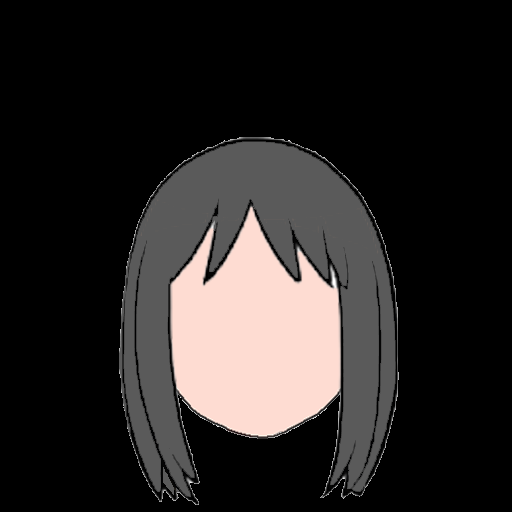
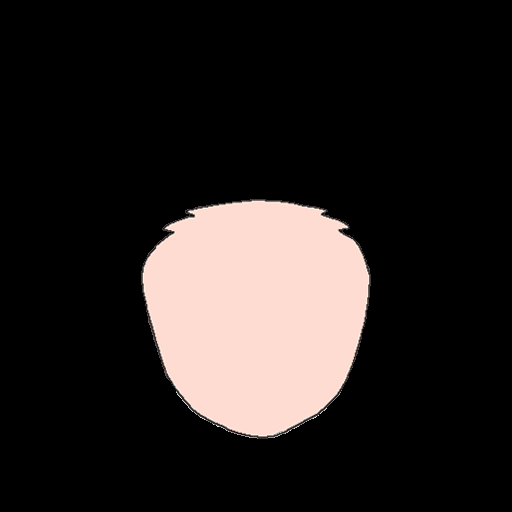
Update

Changed region(s): [[0.2188, 0.25, 0.7812, 1.0]]

diff --git a/frontend/js/animation/CharacterStructure.js b/frontend/js/animation/CharacterStructure.js
@@ -46,7 +46,7 @@ function CharacterStructure ( editor, name ) {
 	this.add( this.nose_mesh );
 	this.add( this.mouth_mesh );
 
-	this.accessory = null;
+	this.hair = null;
 	this.face = null;
 	this.left_ear = null;
 
@@ -75,7 +75,7 @@ CharacterStructure.prototype = Object.create( THREE.Group.prototype );
 CharacterStructure.prototype.constructor = CharacterStructure;
 
 CharacterStructure.prototype.check = function () {
-	if ( this.isCompleted === 50 ) {
+	if ( this.isCompleted === 51 ) {
 		if ( this.name === 'boy' ) {
 			this.editor.boyLoaded = true;
 			this.editor.boyLabel.dom.click();
@@ -90,15 +90,15 @@ CharacterStructure.prototype.check = function () {
 
 CharacterStructure.prototype.addElement = function ( basicElement ) {
 	switch ( basicElement.name ) {
-		// case 'accessory': {
-		// 	basicElement.mesh.position.z -= 0.2;
-		// 	this.accessory = basicElement;
-		// 	this.add( basicElement.mesh );
-		//
-		// 	this.isCompleted++;
-		// 	this.check();
-		// 	break;
-		// }
+		case 'hair': {
+			basicElement.mesh.position.z -= 0.2;
+			this.hair = basicElement;
+			this.add( basicElement.mesh );
+
+			this.isCompleted++;
+			this.check();
+			break;
+		}
 		case 'face': {
 			this.face = basicElement;
 			this.add( basicElement.mesh );
@@ -108,6 +108,7 @@ CharacterStructure.prototype.addElement = function ( basicElement ) {
 			break;
 		}
 		case 'left_ear': {
+			basicElement.mesh.position.z -= 0.3;
 			this.left_ear = basicElement;
 			this.add( basicElement.mesh );
 
@@ -167,7 +168,7 @@ CharacterStructure.prototype.addElement = function ( basicElement ) {
 			break;
 		}
 		case 'right_ear': {
-			basicElement.mesh.position.z -= 0.1;
+			basicElement.mesh.position.z -= 0.3;
 			this.right_ear = basicElement;
 			this.add( basicElement.mesh );
 
@@ -214,48 +215,54 @@ CharacterStructure.prototype.updateEmotion = function ( emotion ) {
 
 	for ( let i = 0; i < Object.keys( EMOTION_TYPE ).length; ++i ) {
 
-		this.left_eyebrow[ i ].mesh.visible = false;
-		if ( this.left_eyebrow[ i ].emotion === emotion ) this.left_eyebrow[ i ].mesh.visible = true;
+		if( this.left_eyebrow[ i ] ) {
+			this.left_eyebrow[ i ].mesh.visible = false;
+			if ( this.left_eyebrow[ i ].emotion === emotion ) this.left_eyebrow[ i ].mesh.visible = true;
+		}
 
-		this.right_eyebrow[ i ].mesh.visible = false;
-		if ( this.right_eyebrow[ i ].emotion === emotion ) this.right_eyebrow[ i ].mesh.visible = true;
+		if( this.right_eyebrow[ i ] ) {
+			this.right_eyebrow[ i ].mesh.visible = false;
+			if ( this.right_eyebrow[ i ].emotion === emotion ) this.right_eyebrow[ i ].mesh.visible = true;
+		}
 
-		this.nose[ i ].mesh.visible = false;
-		if ( this.nose[ i ].emotion === emotion ) this.nose[ i ].mesh.visible = true;
+		if( this.nose[ i ] ) {
+			this.nose[ i ].mesh.visible = false;
+			if ( this.nose[ i ].emotion === emotion ) this.nose[ i ].mesh.visible = true;
+		}
 	}
 
 	for ( let i = 0; i < Object.keys( EMOTION_TYPE ).length + 1; ++i ) {
 
 		if ( this.left_eye[ i ].emotion === emotion ) {
 			if ( this.left_eye_close === false ) {
-				this.left_eye[ i ].mesh.visible = true;
+				if( this.left_eye[ i ] ) this.left_eye[ i ].mesh.visible = true;
 			}
 		}
 		else {
 			if ( this.left_eye_close === false ) {
-				this.left_eye[ i ].mesh.visible = false;
+				if( this.left_eye[ i ] ) this.left_eye[ i ].mesh.visible = false;
 			}
 		}
 
 		if ( this.right_eye[ i ].emotion === emotion ) {
 			if ( this.right_eye_close === false ) {
-				this.right_eye[ i ].mesh.visible = true;
+				if( this.right_eye[ i ] ) this.right_eye[ i ].mesh.visible = true;
 			}
 		}
 		else {
 			if ( this.right_eye_close === false ) {
-				this.right_eye[ i ].mesh.visible = false;
+				if( this.right_eye[ i ] ) this.right_eye[ i ].mesh.visible = false;
 			}
 		}
 
 		if ( this.mouth[ i ].emotion === emotion ) {
 			if ( this.mouth_open === false ) {
-				this.mouth[ i ].mesh.visible = true;
+				if( this.mouth[ i ] ) this.mouth[ i ].mesh.visible = true;
 			}
 		}
 		else {
 			if ( this.mouth_open === false ) {
-				this.mouth[ i ].mesh.visible = false;
+				if( this.mouth[ i ] ) this.mouth[ i ].mesh.visible = false;
 			}
 		}
 	}

diff --git a/frontend/asset/character_preload.js b/frontend/asset/character_preload.js
@@ -1,5 +1,6 @@
 var PRELOAD_JSON = {
 	"face" : "face.png",
+	"hair" : "hair.png",
 	"left_ear" : "left_ear.png",
 	"left_eye" :
 	{
